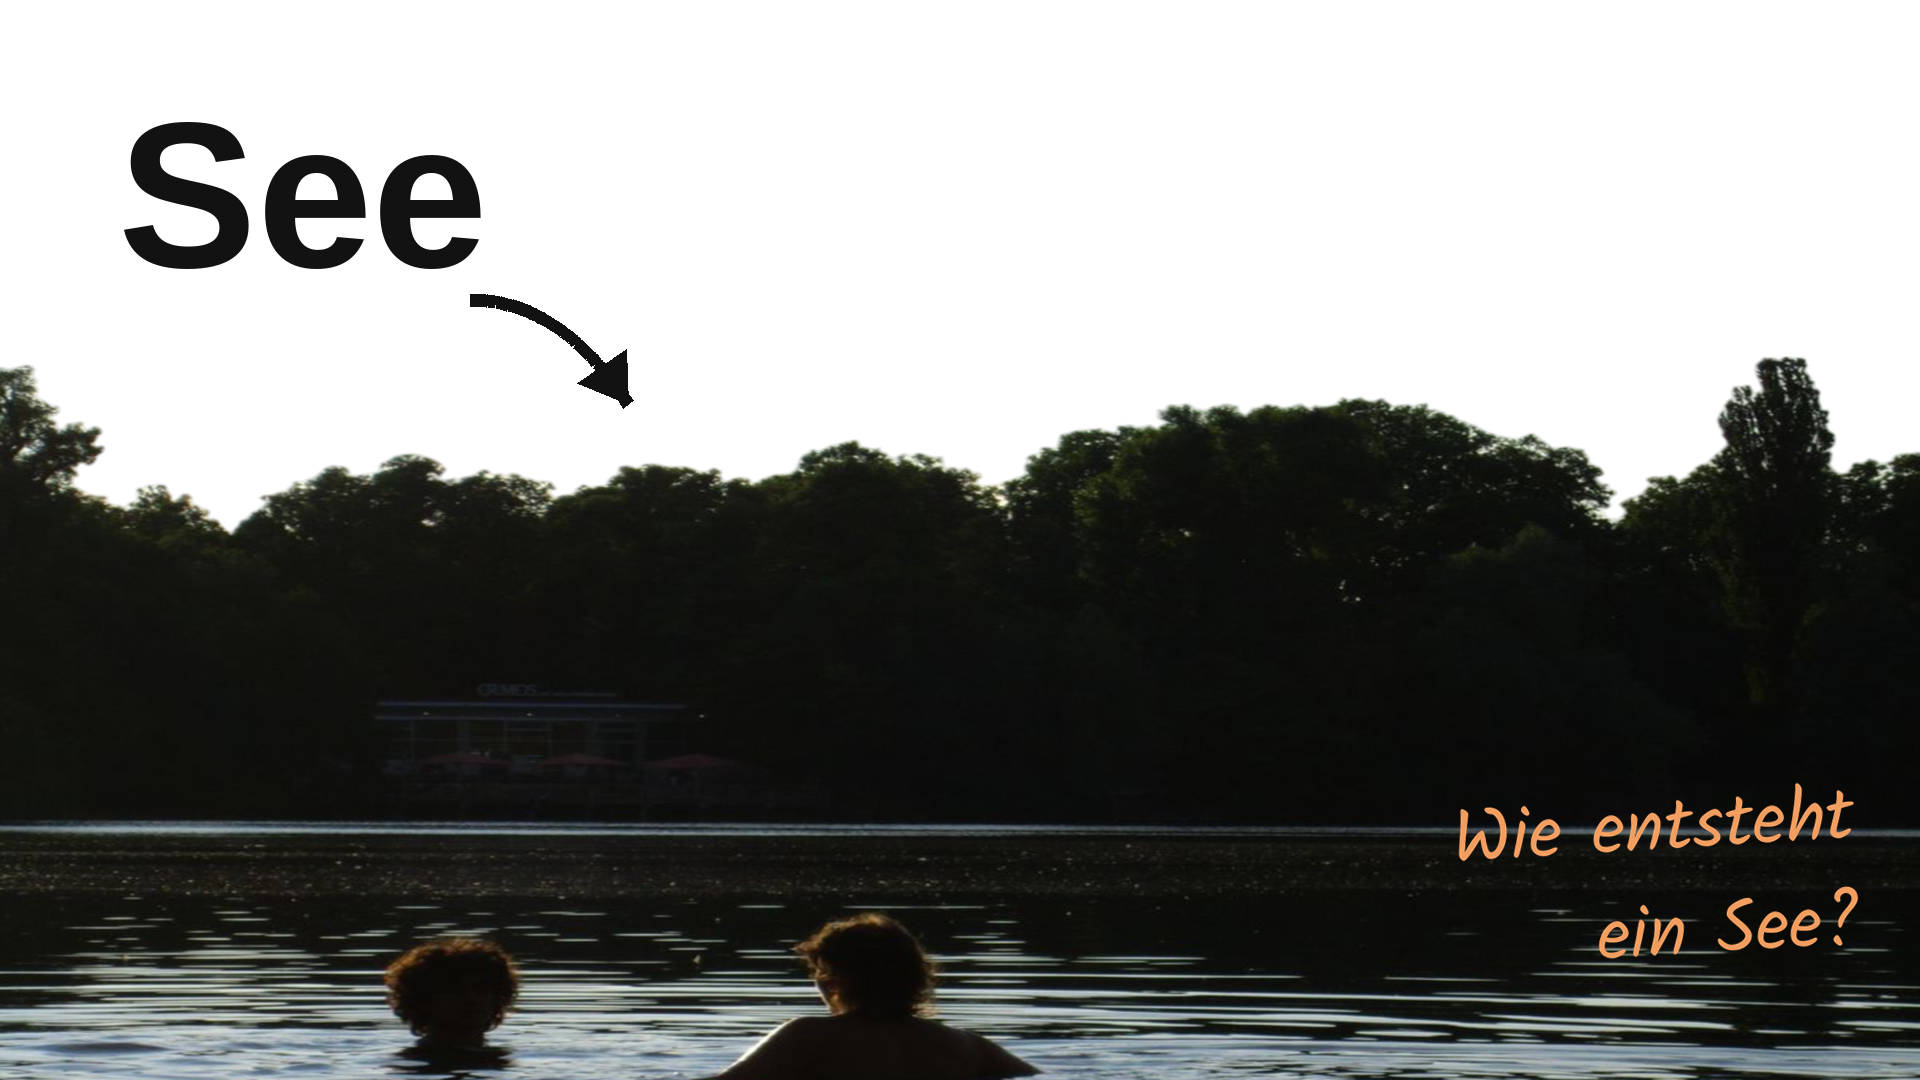
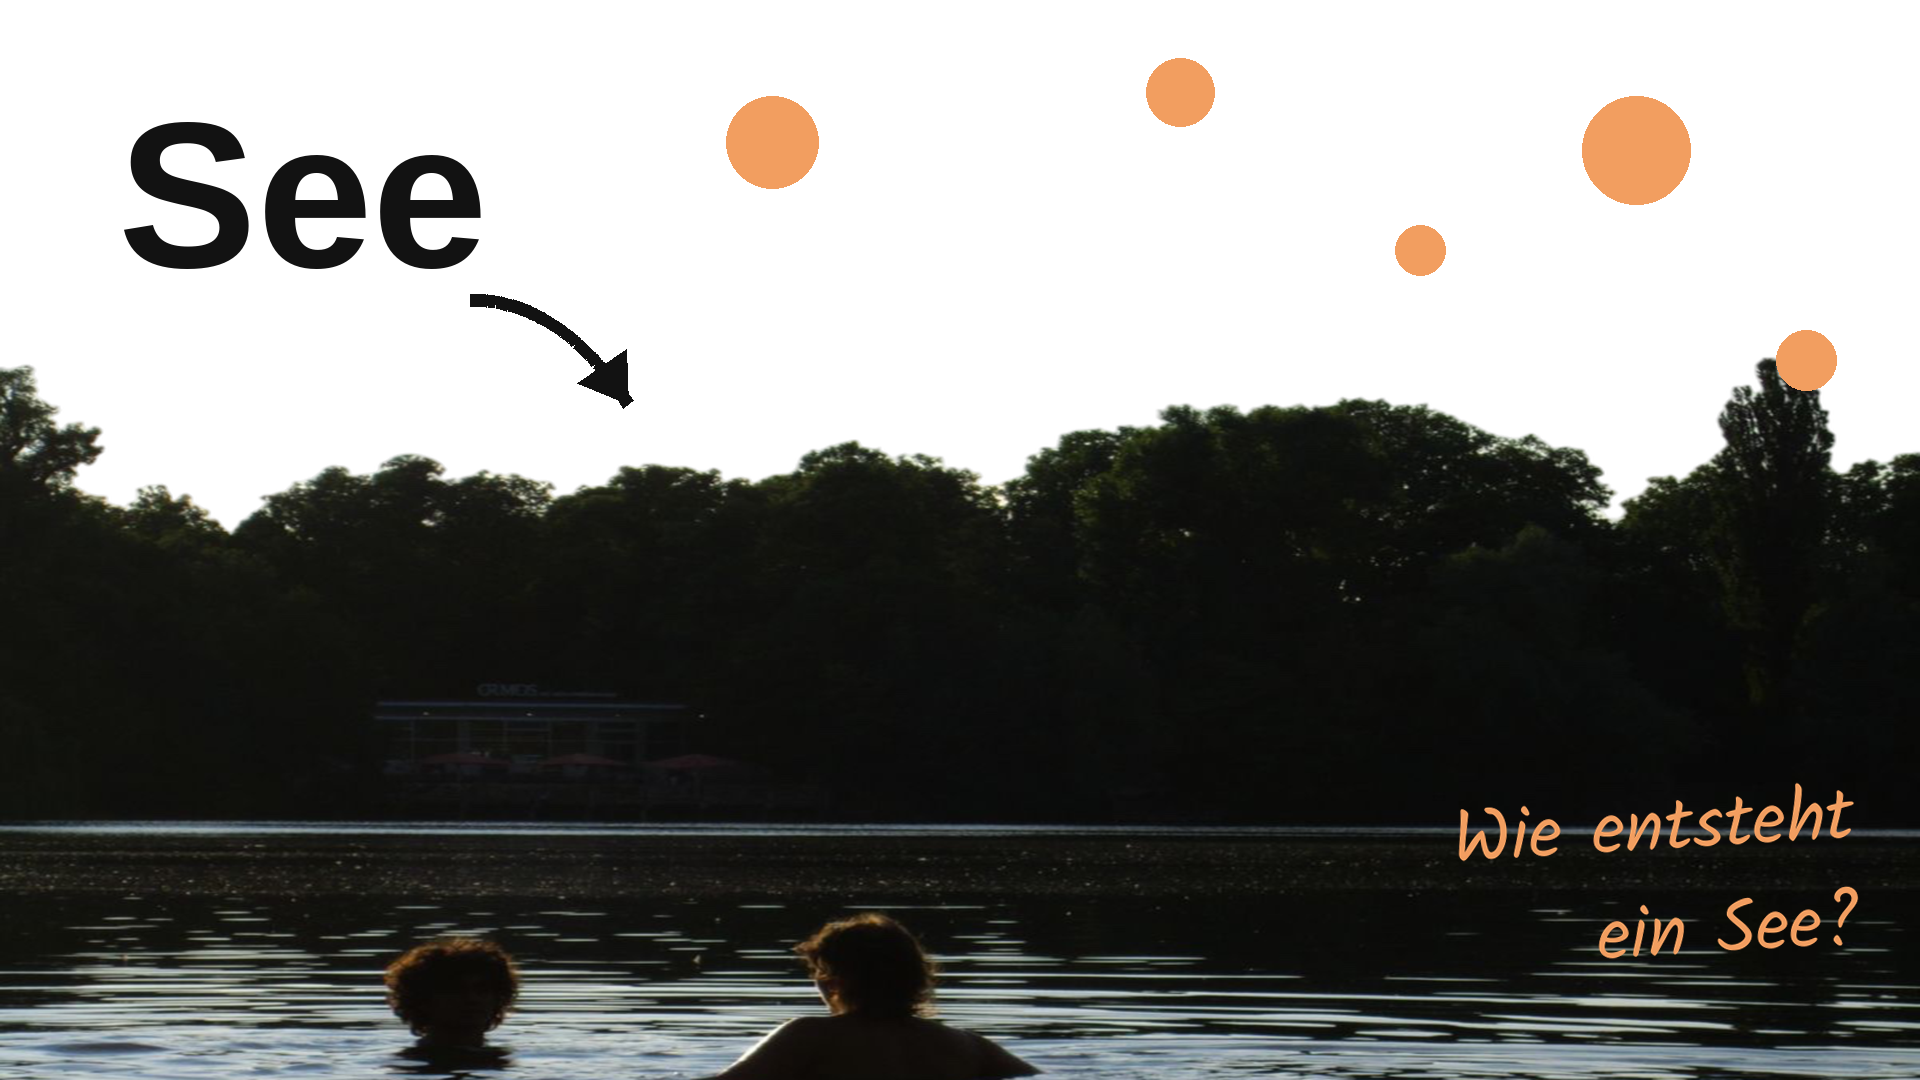
Thumbnail: add pastel-orange circles as a top style element
Scatter ~5 filled pastel-orange circles of varying sizes across the top
white area (matching the handwriting colour), per the reference.

Claude-Session: https://claude.ai/code/session_01LGfGBHPhnM1ZboqdYGLkrp

diff --git a/projects/see-hook/scripts/make_thumb.py b/projects/see-hook/scripts/make_thumb.py
@@ -33,6 +33,9 @@ def make():
     lake=lake.resize((W,HIMG),Image.LANCZOS)
     im.alpha_composite(lake,(0,H-HIMG))
     d=ImageDraw.Draw(im,"RGBA")
+    # pastel-orange filled circles as a style element in the top area
+    for cx,cy,r in [(1636,150,54),(1180,92,34),(1806,360,30),(772,142,46),(1420,250,25)]:
+        d.ellipse([cx-r,cy-r,cx+r,cy+r],fill=PASTEL)
     # 'See' left + black arrow to the lake
     d.text((118,78),"See",font=ImageFont.truetype(LIBB,208),fill=INK)
     _arrow(d,(470,300),(560,300),(628,404))
